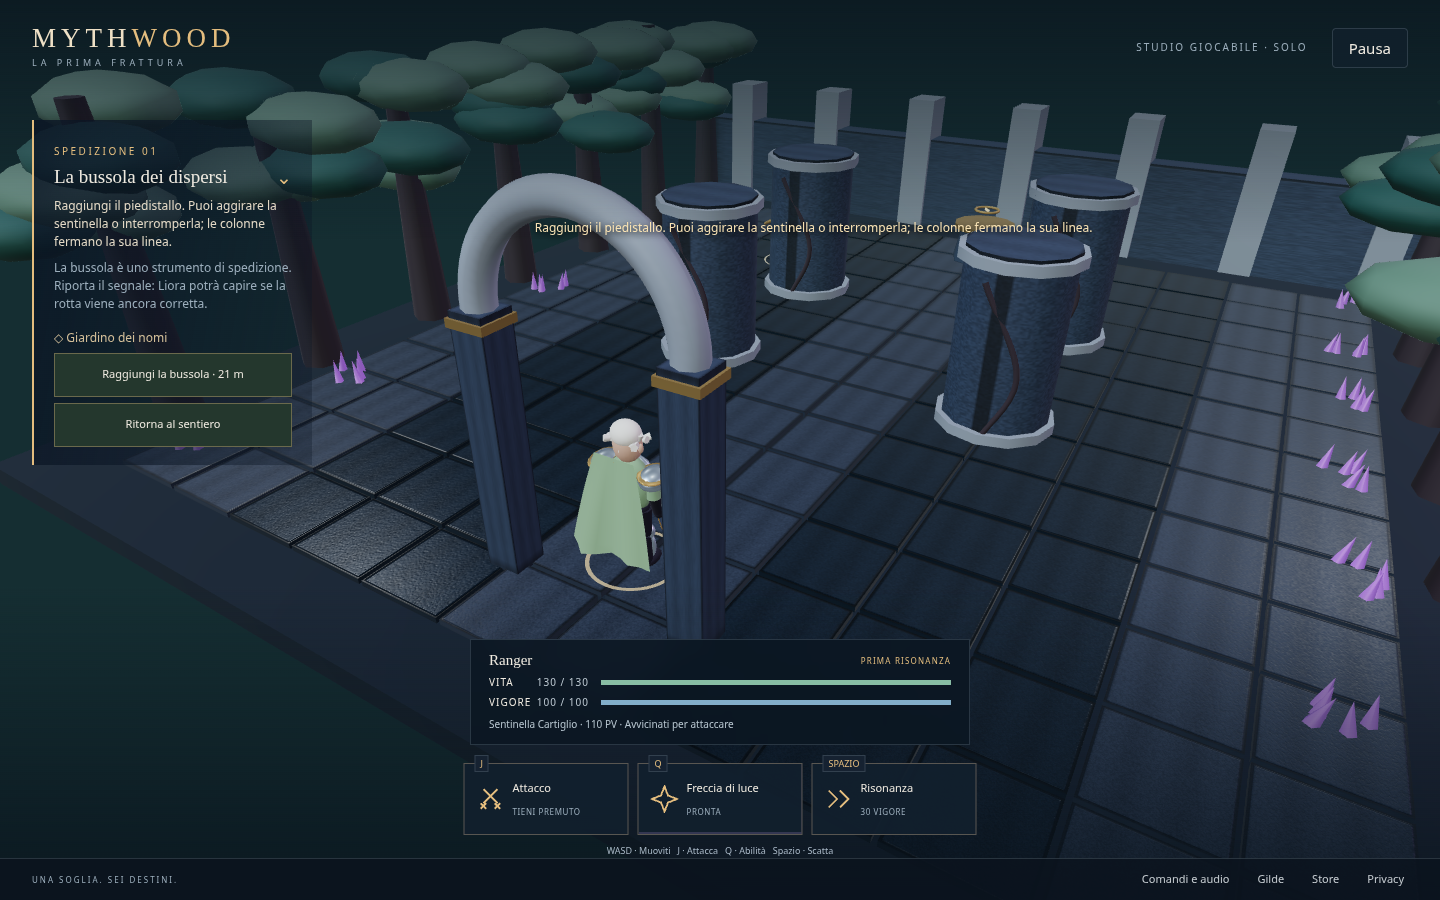
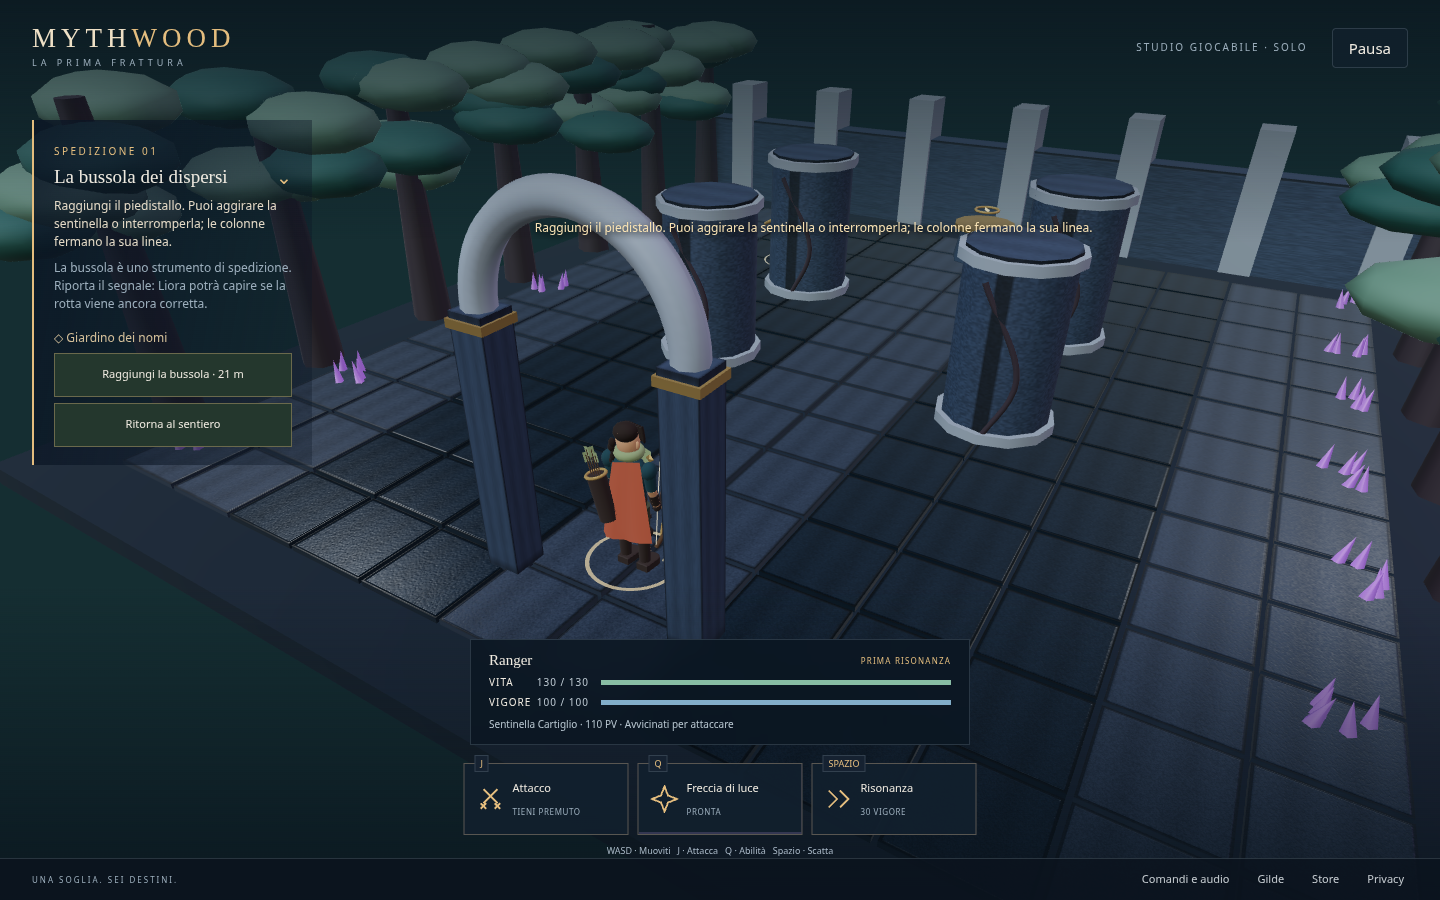
docs: finalize Ranger validation, first-arc counts and social restart copy

Changed region(s): [[0.375, 0.4667, 0.4688, 0.6533]]

diff --git a/HANDOFF.md b/HANDOFF.md
@@ -2,27 +2,29 @@
 
 Aggiornato da Codex il 10 novembre 2026, fuso Europe/Rome.
 Repository nocciolinatanaai/Bosco, ramo mythwood/collaboration-base.
-Ultimo commit applicativo: **45f89ba**. Verificare sempre git log/status e remoto
+Ultimo commit applicativo: **864f97f**. Verificare sempre git log/status e remoto
 prima di continuare. Main e servizio precedente restano separati.
 
-## Blocco corrente — primo Ranger originale in verifica
+## Ultimo blocco concluso — Ranger e comunicazione della ripartenza
 
-Base 8abd192. Quantità proposte primo arco in CONTENT_SCOPE.md: sei personaggi,
-tre NPC, otto tipi di nemico e dieci missioni, non ancora approvate/realizzate.
-Caption pronta in social/RESTART_CAPTION.md; pubblicazione manuale richiesta dal
-proprietario, nessun post o trailer prodotto in questo blocco.
+94 test superati, build riuscita (710 kB JS / 190 kB gzip, warning aperto).
+Primo corpo Ranger originale integrato, distinto dagli altri cinque ruoli:
+giacca, sciarpa/mantello, treccia, faretra, taccuino, arco con corda, freccia
+incoccata e risonanza. 8.524 triangoli di mesh totali, 44 mesh e 14 materiali.
+Resa semplificata: volto, mani, pieghe e contatti della posa restano da rifinire.
+Non equivale alla tavola illustrata o a una scultura finale approvata.
 
-Prima traduzione procedurale del concept Daria integrata per il Ranger: corpo
-proprio, abiti, treccia, mantello, faretra, arco/corda e risonanza. Altri kit e
-regole preservati. 8.524 triangoli totali di mesh, 44 mesh dopo raggruppamento,
-14 materiali: conteggio del modello, non FPS o draw call della scena completa.
-94 test superati; build riuscita (710 kB JS / 190 kB gzip, warning aperto). Studio geometria a quattro pose completato: corpo, corda, risonanza e retro.
-Vista di authoring, non camera del gioco; resa stilizzata ancora distante dal
-concept illustrato. Studio condiviso in assets/character-study con hash in character-latest.json.
-Verifica browser integrata ancora pendente:
-i rapporti precedenti sotto non coprono questo modello. Arte ancora provvisoria,
-nessuna conversione automatica del PNG o scultura finale. Nessun incarico Claude
-sovrapposto registrato; nessuna spesa/deploy/produzione.
+Studio di authoring a quattro pose e regressione integrata superati, così come
+il Giardino con nuovo modello su desktop/mobile. Nessun errore/richiesta esterna
+nei percorsi completi. Zero nuove createBuffer durante tre rivisite a caldo:
+non misura tutte le risorse GPU o FPS. Nessuna prova umana o hardware reale.
+
+CONTENT_SCOPE.md propone per il primo arco sei personaggi, tre NPC, otto tipi
+di nemico e dieci missioni. Solo i sei ruoli sono già concordati; gli altri
+numeri sono obiettivi adattabili, non contenuti completati. Caption con cinque
+hashtag in social/RESTART_CAPTION.md per pubblicazione manuale del proprietario.
+TRAILER_BRIEF.md contiene solo appunti per il successivo incarico: nessun video
+prodotto o pubblicato. Vecchio kit ritirato. Nessun acquisto/deploy/produzione.
 
 ## Mandato e collaborazione
 
@@ -52,7 +54,8 @@ un'integrazione social attiva. Ads, messaggi privati e account terzi esclusi.
 Prototipo individuale Vite/Three.js, Node >=22 e lockfile. Nessuna chiamata al
 backend precedente, account, analytics o pagamenti nella nuova build.
 
-- Sei kit di classe, combo, abilità, proiettili, scatto a vigore e interruzioni.
+- Sei kit di classe, primo corpo Ranger originale e cinque ruoli con corpo
+  condiviso; combo, abilità, proiettili, scatto a vigore e interruzioni.
 - Due echi → ricordo di Liora → risveglio → Custode con Frattura/Onda → tre tracce.
 - Ranger Tiro di ritorno: schivata d'impatto dopo risveglio, finestra di 4 secondi
   per abilità doppia; seconda freccia ritardata di 140 ms al 65% del danno base.
@@ -90,20 +93,20 @@ di regioni. I dati locali non sono autorità per economia o premi online futuri.
 
 ## Verifiche e provenienza
 
-**88 test superati**, build riuscita: circa 702 kB JS / 187 kB gzip; warning
+**94 test superati**, build riuscita: circa 710 kB JS / 190 kB gzip; warning
 chunk >500 kB ancora aperto. Rapporti in docs/verification/:
 
 | Rapporto | Sorgenti verificate | Ambito |
 | --- | --- | --- |
-| unit-latest.json | 45f89ba | 88 test, incluse fixture SQL sintetiche e ripresa sentinella |
-| garden-latest.json | 47b9f36 | Desktop/mobile, missione, migrazione, ricarica, ritorno, rivisite |
-| browser-latest.json | 3412915 | Regressione completa del primo episodio a tempo normale, inclusi fallback storage |
-| checkpoint-ui-latest.json | 45f89ba | Ultimo testo guida e ripresa v1/v2 con autosave spento, sentinella già sconfitta |
+| unit-latest.json | 864f97f | 94 test, incluse geometria/pose, regole e fixture SQL sintetiche |
+| garden-latest.json | 864f97f | Desktop/mobile, missione, migrazione, ricarica, ritorno, rivisite |
+| browser-latest.json | 864f97f | Regressione completa del primo episodio a tempo normale, inclusi fallback storage |
+| character-latest.json | 864f97f | Confronto di authoring, quattro pose, hash geometria/immagini |
+| checkpoint-ui-latest.json | 45f89ba | Precedente controllo testo guida e ripresa v1/v2 con autosave spento, sentinella già sconfitta |
 
-Tra 3412915 e 45f89ba il solo ritocco applicativo è il testo dell'obiettivo quando
-nel giardino non restano nemici: controllato nel test rapido dedicato. Ogni
-rapporto include gli hash pertinenti; non attribuire automaticamente a nuovi
-sorgenti risultati di commit precedenti. Tutti i runner finali sopra hanno exit 0.
+I rapporti indicano sorgenti/hash e ambito; quello rapido checkpoint precedente
+mantiene la propria provenienza e non è stato rieseguito in questo blocco.
+I runner di studio, regressione e Giardino correnti hanno exit 0.
 
 Chromium SwiftShader, non dispositivi fisici. Nuova area: Leggera, DPR 1,
 1440×900/390×844 e layout 844×390. Regressione: mobile DPR 2 e controlli dei tre
@@ -122,6 +125,7 @@ npm run build
 MYTHWOOD_CHROMIUM_PATH=/usr/bin/chromium npm run test:garden
 MYTHWOOD_CHROMIUM_PATH=/usr/bin/chromium npm run test:browser
 MYTHWOOD_CHROMIUM_PATH=/usr/bin/chromium npm run test:checkpoints
+MYTHWOOD_CHROMIUM_PATH=/usr/bin/chromium npm run test:character
 ```
 
 Altrove installare Chromium Playwright. npm run dev avvia su loopback; il relativo
@@ -133,7 +137,8 @@ sono in test-results/, ignorata da Git; condividere solo gli esiti verificati.
 
 1. **Arte:** tradurre un personaggio in qualità giocabile con confronto reale.
    CHARACTER_DARIA.md e tavola originale sono una proposta per il Ranger;
-   nome/cast non approvati, nessun modello Daria implementato. Non presentare
+   nome/cast non approvati; prima interpretazione procedurale presente, qualità
+   finale e somiglianza al concept da migliorare. Non presentare
    il concept come screenshot o asset 3D già pronto.
 2. **Prova umana:** PLAYTEST_01.md; capire obiettivo, cariche, crescita e orientamento.
    Non dedurre divertimento, bilanciamento o retention dai bot.

diff --git a/docs/social/TRAILER_BRIEF.md b/docs/social/TRAILER_BRIEF.md
@@ -1,0 +1,37 @@
+# Trailer di ripartenza — appunti per il prossimo incarico
+
+Il proprietario ha chiesto caption/hashtag ora e trailer in un incarico successivo.
+Questo è un brief, non un video già prodotto o pubblicato. Il vecchio kit resta
+ritirato. Non utilizzare i vecchi script per riattivarlo.
+
+Obiettivo: far capire il cambio completo di direzione e una promessa concreta
+(trama, combattimento, crescita, esplorazione), con gameplay recente riconoscibile.
+Formato proposto: verticale, 18–22 secondi. Non promette qualità finale o viralità.
+
+| Tempo proposto | Materiale reale da registrare | Testo breve |
+| --- | --- | --- |
+| 0–3 s | Frattura dorata / ingresso in rovina | Abbiamo cambiato tutto. |
+| 3–7 s | Memoria di Liora, interfaccia effettiva e ritratto | Trova chi è stato dimenticato. |
+| 7–12 s | Schivata d'impatto → Ranger Tiro di ritorno, due frecce visibili | Il ricordo diventa potere. |
+| 12–17 s | Recupero bussola e segnale nel Giardino | Riporta fuori un segnale. |
+| 17–22 s | Marchio Mythwood e chiusura | Segui lo sviluppo. Scegli la tua classe. |
+
+Dicitura leggibile: prototipo in sviluppo. Non mostrare gilde come giocabili,
+una grande mappa come esistente o sei personaggi rifiniti: non sono presenti.
+Nessuna ricostruzione immaginaria di una sessione multiplayer.
+
+Le immagini del concept Daria, se usate, devono avere un segmento distinto con
+etichetta Concept. Gli studi 3D sono viste di authoring, non camera gameplay;
+il confronto del corpo condiviso non rappresenta il vecchio Bosco pubblicato.
+La resa attuale rimane semplificata: valutare se il materiale è abbastanza
+convincente prima di costruire il montaggio attorno a un primo piano del volto.
+
+Audio: prima scelta effetti originali del gioco, livelli controllati. Nessuna
+musica commerciale o acquisto implicito. Leggibilità anche senza suono;
+sottotitoli e testi lontani dalle sovrapposizioni delle piattaforme. Il montaggio
+non deve inventare azioni o trasformazioni assenti nella build.
+
+Registrare commit, impostazioni, provenienza dei clip e degli audio. Consegna
+futura: file video, copertina e testo di accompagnamento coerente con il contenuto.
+La caption di ripartenza corrente è in RESTART_CAPTION.md. Nessuna pubblicazione
+eseguita in questo blocco, nessun nuovo accesso social richiesto.

diff --git a/README.md b/README.md
@@ -81,8 +81,8 @@ nessun deploy, migrazione online o modifica degli account social è stato esegui
 ## Limiti noti
 
 Nessun multiplayer, mondo vasto, collisioni ambientali complete, asset finali,
-salvataggi online, backend nuovo o store operativo. Gli archetipi hanno regole, equipaggiamenti e pose differenti; condividono ancora
-il modello procedurale di base. Animazioni, audio e resa artistica finali mancano. Nessuna promessa
+salvataggi online, backend nuovo o store operativo. Gli archetipi hanno regole, equipaggiamenti e pose differenti; cinque condividono ancora
+il modello procedurale di base, mentre il Ranger ha una prima interpretazione originale. Animazioni, audio e resa artistica finali mancano. Nessuna promessa
 di durata o viralità. La prima build contiene un chunk motore superiore a 500 kB
 minificati: distribuzione, prestazioni reali e caricamento progressivo sono da
 ottimizzare. Per pubblicare va distribuita dist/, non la radice del repository.
@@ -104,3 +104,9 @@ verifiche e limiti in HANDOFF e docs/QUEST_02.md.
 `npm run test:garden` verifica migrazione, nuova area, bussola, ricarica, ritorno
 e rivisite su desktop/mobile, a tempo normale. In Cloud usare la stessa variabile
 MYTHWOOD_CHROMIUM_PATH. Partenza da un checkpoint sintetico dopo la prima missione.
+
+
+Studio Ranger: `npm run test:character` produce quattro viste di authoring con
+lo stesso setup per vecchio corpo condiviso e nuovo Ranger. Non è la camera del
+gioco; il confronto non rappresenta il vecchio Bosco pubblicato. Caption e
+quantità proposte in docs/social/RESTART_CAPTION.md e docs/CONTENT_SCOPE.md.

diff --git a/docs/IDEAS.md b/docs/IDEAS.md
@@ -12,7 +12,7 @@ sviluppa le ipotesi creative; HANDOFF.md descrive ciò che esiste davvero.
 | Ispirazione | Fantasia di crescita di Solo Leveling, senza copiarne personaggi, asset, storia o poteri distintivi | Classi generiche e potere degli echi come proposta originale |
 | Direzione visiva | Mockup approvato: rovine, vegetazione cristallina, guardiano, frattura dorata, ombre blu/viola, squadra stilizzata dettagliata | Concept in assets; catture reali separate in assets/prototype |
 | Esplorazione | Mappa molto grande, ricca di contenuti e scoperte | Piazza/sentiero e prima area Giardino con recupero/ritorno; geometria locale riutilizzata, nessuno streaming del mondo |
-| Personaggi | Più personaggi fra cui scegliere, con abilità diverse | Sei kit, un modello procedurale condiviso; non un cast completo |
+| Personaggi | Più personaggi fra cui scegliere, con abilità diverse | Sei kit, primo Ranger originale e altri cinque con corpo condiviso; cast finale aperto |
 | Classi | Assassini, Maghi, Ranger, Guaritori, Tank e Combattenti | Kit di prova con attacchi, abilità ed equipaggiamenti differenti |
 | Richieste giocatori | Lasciare spazio alle proposte del pubblico | Processo in PLAYER_FEEDBACK.md; nessun feedback reale ancora raccolto |
 | Crescita | Evoluzioni importanti, visibili e capaci di cambiare il gioco | Prima risonanza comune: lo scatto diventa offensivo; prima variazione Ranger in sviluppo; altri percorsi mancanti |

diff --git a/docs/CONTENT_SCOPE.md b/docs/CONTENT_SCOPE.md
@@ -6,7 +6,7 @@ I sei ruoli sono concordati; gli altri numeri restano adattabili ai feedback.
 
 | Categoria | Obiettivo proposto | Presente nel prototipo |
 | --- | --- | --- |
-| Personaggi giocabili | 6, uno per Tank/Combattente/Assassino/Mago/Ranger/Guaritore | 6 kit, corpo procedurale condiviso. Daria proposta per il primo Ranger |
+| Personaggi giocabili | 6, uno per Tank/Combattente/Assassino/Mago/Ranger/Guaritore | 6 kit; primo Ranger con corpo originale provvisorio, altri cinque condivisi. Daria proposta di personaggio |
 | NPC narrativi | 3: Liora, figura del rifugio, interlocutore di Cartiglio | Liora in testi/ritratto; gli altri due da definire |
 | Tipi di nemico | 8: 6 comuni/élite e 2 boss | 4 definizioni: due echi, Custode, sentinella. I due echi condividono comportamento; non sono quattro IA diverse |
 | Missioni principali | 6 | 3 blocchi: prima frattura, pista di Liora, giardino con recupero/ritorno |

diff --git a/docs/COLLABORATION.md b/docs/COLLABORATION.md
@@ -327,3 +327,14 @@ Studio visivo condiviso con hash/sorgenti 864f97f e 94 test superati. Immagini
 chiaramente etichettate come authoring, non gameplay e non confronto con Bosco
 pubblicato. Regressione integrata in corso; nessuna qualità finale o risultato
 umano dedotti. Contenuti quantitativi indicati come proposta, non promessa.
+
+
+## Blocco Ranger originale concluso
+
+864f97f: 94 test, build, studio a quattro pose, regressione completa e Giardino
+con nuovo corpo passati su desktop/mobile. Zero errori/richieste esterne nei
+percorsi; rivisite a caldo senza nuove createBuffer osservate. Rapporti e
+catture aggiornati, senza attribuire risultati hardware o qualità finale.
+Caption/hashtag per pubblicazione manuale e quantità proposte condivisi; brief
+trailer futuro, nessun video/post prodotto da Codex. Nessuna risposta Claude
+ricevuta o incarico accettato presunto. File liberi per revisione registrata.

diff --git a/docs/BACKLOG.md b/docs/BACKLOG.md
@@ -143,3 +143,13 @@ W01/C04 parziali: due aree locali, missione di recupero/segnale/ritorno,
 sentinella rettilinea con coperture e salvataggi v2 compatibili v1. 88 test,
 build e prova UI dedicata desktop/mobile passati su 47b9f36. Regressione completa
 passata sui due viewport (3412915); ultimo ritocco UI/ripresa verificato su 45f89ba. Nessuno streaming, prova umana o modello Daria implementati.
+
+
+## Primo Ranger originale e comunicazione
+
+C05/EV01 parziali: corpo Ranger dedicato, arco/corda/posa e risonanza integrati.
+94 test, build, studio di authoring, regressione e Giardino passati su 864f97f.
+Volto/mani/pieghe, contatto della presa e origine visiva dei proiettili da rifinire
+prima di chiamare il modello finale. Altri cinque corpi condivisi. Quantità
+primo arco proposte in CONTENT_SCOPE, caption pronta e brief trailer successivo;
+nessun video o post prodotto/pubblicato da Codex in questo blocco.

diff --git a/docs/CHARACTER_DARIA.md b/docs/CHARACTER_DARIA.md
@@ -99,3 +99,11 @@ visuals/ranger.js; nessun asset acquistato o PNG trasformato automaticamente.
 La resa resta semplificata, soprattutto volto, mani e pieghe: non equivale alla
 qualità del concept né a un personaggio finale. Claude potrà proporre una
 modellazione migliore a partire da questa base, con confronto e test pertinenti.
+
+
+Verifica integrata finale su 864f97f: 94 test, build, regressione completa e
+Giardino passati desktop/mobile. Report e catture hanno il proprio ambito:
+authoring in character-study, gameplay in prototype. Prima del modello finale
+restano da rifinire volto/mano/pieghe, contatto della presa e origine visiva dei
+proiettili (ancora gestita dalla VFX generica). Nessuna validazione artistica con
+persone o FPS/hardware. Il concept continua a essere un riferimento più ambizioso.

diff --git a/docs/assets/prototype/README.md b/docs/assets/prototype/README.md
@@ -22,3 +22,9 @@ Catture Giardino dei nomi: desktop-garden-entry, mobile-garden-entry,
 mobile-garden-compass e mobile-garden-landscape. Build sorgenti 47b9f36,
 Chromium SwiftShader, Leggera, DPR 1. Screenshot della scena effettiva, non
 concept; arte procedurale provvisoria. Esiti in verification/garden-latest.json.
+
+
+Aggiornamento 864f97f: catture Giardino sostituite con la stessa scena e nuovo
+Ranger; aggiunte desktop-resonance e mobile-resonance dalla regressione normale.
+Non sono concept o camera di authoring. Prove Garden in Leggera/DPR 1; regressione
+mobile DPR 2. Il modello resta provvisorio, nessun confronto di FPS.

diff --git a/docs/social/RESTART_CAPTION.md b/docs/social/RESTART_CAPTION.md
@@ -26,7 +26,8 @@ Prototipo in sviluppo: grafica e contenuti continuano a evolversi.
 ## Materiale allegato e prossimo incarico
 
 Se il post usa la tavola di Daria aggiungere: «Concept artistico del personaggio;
-non è una cattura del gioco». Per screenshot reali usare le catture versionate,
+non è una cattura del gioco». Se si usa lo studio 3D, etichettarlo come studio del modello, non camera di gioco.
+Per screenshot reali usare le catture versionate,
 indicando correttamente lo stato provvisorio. Nessuna promessa di gilde già attive.
 
 Il proprietario ha chiesto il trailer come incarico successivo, non in questo

diff --git a/docs/verification/README.md b/docs/verification/README.md
@@ -50,3 +50,8 @@ quando l'autosalvataggio è spento. La matrice corrente è in HANDOFF.md.
 character-latest.json: studio d'autore dei due modelli con medesime luce/camera,
 quattro pose e hash sorgente/immagini. Non è screenshot della camera di gioco né
 misura di FPS. Il conteggio 8.524 triangoli include anche mesh nascoste.
+
+
+Blocco Ranger originale: unit/character/browser/garden-latest aggiornati su
+864f97f. Il report checkpoint UI precedente resta attribuito a 45f89ba; non
+riutilizzare quel commit per presentare un nuovo collaudo del modello.
